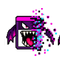
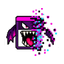
Caçada: limpa sobras de recorte dos sprites (linhas fantasma e pedaços soltos)
- Capanga-Mor, Degustador, Sombra e punho tinham a borda da folha de recorte como uma linha
  quase transparente (aparecia do outro lado quando o sprite virava).
- 13 sprites tinham pedaços do quadro vizinho colados na margem (conferidos um a um).
- tools/sprites-bordas.js acha os suspeitos; tools/sprites-limpar.js limpa sem tocar no desenho.

Changed region(s): [[0.875, 0.5312, 0.9375, 0.7188]]

diff --git a/tools/sprites-bordas.js b/tools/sprites-bordas.js
@@ -1,0 +1,147 @@
+// Confere as bordas dos sprites (Caçada e outros): acha desenho cortado na borda da imagem e
+// pedaços soltos perto da borda (sobras do quadro vizinho), que aparecem quando o sprite vira.
+// Uso: node tools/sprites-bordas.js [pastas...] [--json saida.json] [--folha pasta-das-folhas]
+//   --folha gera, para cada sprite com problema, uma imagem com o original e o espelhado
+//   lado a lado, sobre xadrez, com os problemas marcados em vermelho.
+const fs = require('node:fs');
+const path = require('node:path');
+const sharp = require('sharp');
+
+const args = process.argv.slice(2);
+const opc = { pastas: [], json: null, folha: null };
+for (let i = 0; i < args.length; i++) {
+    if (args[i] === '--json') opc.json = args[++i];
+    else if (args[i] === '--folha') opc.folha = args[++i];
+    else opc.pastas.push(args[i]);
+}
+if (!opc.pastas.length) {
+    opc.pastas = ['degustador', 'chefes', 'inimigos', 'npcs', 'inominavel', 'objetos', 'perigos', 'efeitos', 'ronda']
+        .map((p) => path.join('assets', p));
+}
+
+const ALFA = 24;            // acima disso o pixel conta como desenho
+const PERTO = 6;            // pedaço solto a até 6 px da borda
+const PEDACO_MAX = 0.02;    // pedaço solto = menos de 2% do desenho
+
+function pngs(pasta) {
+    if (!fs.existsSync(pasta)) return [];
+    return fs.readdirSync(pasta, { withFileTypes: true }).flatMap((d) => {
+        const p = path.join(pasta, d.name);
+        if (d.isDirectory()) return pngs(p);
+        return /\.png$/i.test(d.name) ? [p] : [];
+    });
+}
+
+/** Componentes conectados (8 vizinhos) dos pixels com desenho. */
+function componentes(opaco, w, h) {
+    const rotulo = new Int32Array(w * h).fill(-1);
+    const lista = [];
+    const fila = new Int32Array(w * h);
+    for (let p0 = 0; p0 < w * h; p0++) {
+        if (!opaco[p0] || rotulo[p0] >= 0) continue;
+        const c = { n: 0, x0: w, y0: h, x1: 0, y1: 0 };
+        let ini = 0, fim = 0;
+        fila[fim++] = p0; rotulo[p0] = lista.length;
+        while (ini < fim) {
+            const p = fila[ini++];
+            const x = p % w, y = (p - x) / w;
+            c.n++;
+            if (x < c.x0) c.x0 = x; if (x > c.x1) c.x1 = x;
+            if (y < c.y0) c.y0 = y; if (y > c.y1) c.y1 = y;
+            for (let dy = -1; dy <= 1; dy++) for (let dx = -1; dx <= 1; dx++) {
+                const nx = x + dx, ny = y + dy;
+                if (nx < 0 || ny < 0 || nx >= w || ny >= h) continue;
+                const q = ny * w + nx;
+                if (opaco[q] && rotulo[q] < 0) { rotulo[q] = lista.length; fila[fim++] = q; }
+            }
+        }
+        lista.push(c);
+    }
+    return lista;
+}
+
+async function conferir(arquivo) {
+    const { data, info } = await sharp(arquivo).ensureAlpha().raw().toBuffer({ resolveWithObject: true });
+    const { width: w, height: h } = info;
+    const opaco = new Uint8Array(w * h);
+    let total = 0;
+    for (let p = 0; p < w * h; p++) if (data[p * 4 + 3] > ALFA) { opaco[p] = 1; total++; }
+    const r = { arquivo: arquivo.replace(/\\/g, '/'), w, h, problemas: [], marcas: [] };
+    if (!total) { r.problemas.push('imagem vazia'); return r; }
+    // 1) desenho encostando na borda (cortado)
+    const borda = { cima: 0, baixo: 0, esquerda: 0, direita: 0 };
+    for (let x = 0; x < w; x++) { borda.cima += opaco[x]; borda.baixo += opaco[(h - 1) * w + x]; }
+    for (let y = 0; y < h; y++) { borda.esquerda += opaco[y * w]; borda.direita += opaco[y * w + w - 1]; }
+    for (const [lado, n] of Object.entries(borda)) {
+        if (n >= 2) {
+            r.problemas.push(`encosta na borda ${lado} (${n} px)`);
+            r.marcas.push(lado === 'cima' ? { x: 0, y: 0, w, h: 3 } : lado === 'baixo' ? { x: 0, y: h - 3, w, h: 3 }
+                : lado === 'esquerda' ? { x: 0, y: 0, w: 3, h } : { x: w - 3, y: 0, w: 3, h });
+        }
+    }
+    // 2) corte reto: a coluna/linha mais de fora do desenho tem muitos pixels (faca de recorte),
+    //    mesmo com margem transparente depois (recorte feito antes de pôr a margem)
+    let x0 = w, x1 = -1, y0 = h, y1 = -1;
+    for (let y = 0; y < h; y++) for (let x = 0; x < w; x++) if (opaco[y * w + x]) {
+        if (x < x0) x0 = x; if (x > x1) x1 = x; if (y < y0) y0 = y; if (y > y1) y1 = y;
+    }
+    const conta = (fixo, vertical) => {
+        let n = 0;
+        for (let i = 0; i < (vertical ? h : w); i++) n += vertical ? opaco[i * w + fixo] : opaco[fixo * w + i];
+        return n;
+    };
+    const lados = [['esquerda', x0, true], ['direita', x1, true], ['cima', y0, false], ['baixo', y1, false]];
+    for (const [lado, pos, vertical] of lados) {
+        const naBorda = pos === 0 || pos === (vertical ? w - 1 : h - 1);
+        const n = conta(pos, vertical);
+        const minimo = Math.max(8, Math.round((vertical ? y1 - y0 : x1 - x0) * 0.15));
+        if (!naBorda && n >= minimo && lado !== 'baixo') {
+            r.problemas.push(`corte reto na ${lado} (${n} px na coluna/linha ${pos})`);
+            r.marcas.push(vertical ? { x: pos - 1, y: 0, w: 3, h } : { x: 0, y: pos - 1, w, h: 3 });
+        }
+    }
+    // 3) pedaços soltos pequenos perto da borda
+    for (const c of componentes(opaco, w, h)) {
+        const pequeno = c.n < total * PEDACO_MAX;
+        const pertoDaBorda = c.x0 < PERTO || c.y0 < PERTO || c.x1 >= w - PERTO || c.y1 >= h - PERTO;
+        if (pequeno && pertoDaBorda && c.n >= 3) {
+            r.problemas.push(`pedaço solto de ${c.n} px em x ${c.x0}-${c.x1}, y ${c.y0}-${c.y1}`);
+            r.marcas.push({ x: c.x0 - 2, y: c.y0 - 2, w: c.x1 - c.x0 + 5, h: c.y1 - c.y0 + 5 });
+        }
+    }
+    r.margem = { cima: null };
+    return r;
+}
+
+/** Original + espelhado sobre xadrez, com os problemas em vermelho. */
+async function folha(r, pasta) {
+    const { w, h } = r;
+    const xadrez = Buffer.from(`<svg xmlns="http://www.w3.org/2000/svg" width="${w * 2 + 12}" height="${h}">
+        <defs><pattern id="x" width="16" height="16" patternUnits="userSpaceOnUse"><rect width="16" height="16" fill="#ddd"/><rect width="8" height="8" fill="#aaa"/><rect x="8" y="8" width="8" height="8" fill="#aaa"/></pattern></defs>
+        <rect width="100%" height="100%" fill="url(#x)"/><rect x="${w}" width="12" height="${h}" fill="#222"/></svg>`);
+    const marcas = (espelho) => Buffer.from(`<svg xmlns="http://www.w3.org/2000/svg" width="${w}" height="${h}">${r.marcas.map((m) => {
+        const x = espelho ? w - m.x - m.w : m.x;
+        return `<rect x="${x}" y="${m.y}" width="${m.w}" height="${m.h}" fill="none" stroke="red" stroke-width="2"/>`;
+    }).join('')}</svg>`);
+    const orig = await sharp(r.arquivo).ensureAlpha().png().toBuffer();
+    const esp = await sharp(r.arquivo).ensureAlpha().flop().png().toBuffer();
+    const nome = r.arquivo.replace(/^assets\//, '').replace(/[\\/]/g, '__');
+    await sharp(xadrez).composite([
+        { input: orig, left: 0, top: 0 }, { input: marcas(false), left: 0, top: 0 },
+        { input: esp, left: w + 12, top: 0 }, { input: marcas(true), left: w + 12, top: 0 },
+    ]).png().toFile(path.join(pasta, nome));
+}
+
+(async () => {
+    const arquivos = opc.pastas.flatMap(pngs);
+    const resultados = [];
+    for (const a of arquivos) resultados.push(await conferir(a));
+    const ruins = resultados.filter((r) => r.problemas.length);
+    if (opc.folha) {
+        fs.mkdirSync(opc.folha, { recursive: true });
+        for (const r of ruins) await folha(r, opc.folha);
+    }
+    for (const r of ruins) console.log(`${r.arquivo} (${r.w}x${r.h}): ${r.problemas.join('; ')}`);
+    console.log(`\n${arquivos.length} sprites conferidos, ${ruins.length} com possível problema.`);
+    if (opc.json) fs.writeFileSync(opc.json, JSON.stringify(ruins, null, 1));
+})();

diff --git a/tools/sprites-limpar.js b/tools/sprites-limpar.js
@@ -1,0 +1,98 @@
+// Limpa sobras de recorte dos sprites, sem tocar no desenho:
+//   1) linhas fantasma: fileiras retas e longas de pixels quase transparentes (alfa 1..60), isoladas
+//      (com vazio de um lado), deixadas pela borda da folha de onde o quadro foi recortado;
+//   2) pedaços soltos (--pedacos): componentes pequenos (< 2% do desenho) a até 6 px da borda.
+// Uso: node tools/sprites-limpar.js [--pedacos] [--ver] arquivo.png ...   (--ver = só mostra)
+//      node tools/sprites-limpar.js --pastas degustador chefes ...          (linhas fantasma em pastas de assets/)
+// Ver também tools/sprites-bordas.js, que acha os suspeitos.
+const fs = require('node:fs');
+const path = require('node:path');
+const sharp = require('sharp');
+
+const FRACO = 60;
+const LINHA_MIN = 0.35;     // fileira com pelo menos 35% do lado da imagem
+const LINHA_MIN_PX = 50;    // e 50 px (contorno reto de asa ou envelope pequeno fica)
+const PERTO = 6;
+const PEDACO_MAX = 0.02;
+
+const args = process.argv.slice(2);
+const pedacos = args.includes('--pedacos');
+const soVer = args.includes('--ver');
+let arquivos = args.filter((a) => !a.startsWith('--'));
+if (args.includes('--pastas')) {
+    const lista = (d) => fs.existsSync(d) ? fs.readdirSync(d, { withFileTypes: true })
+        .flatMap((e) => e.isDirectory() ? lista(path.join(d, e.name)) : /\.png$/i.test(e.name) ? [path.join(d, e.name)] : []) : [];
+    arquivos = arquivos.flatMap((p) => lista(path.join('assets', p)));
+}
+
+function linhasFantasma(data, w, h) {
+    const a = (x, y) => data[(y * w + x) * 4 + 3];
+    const apagar = new Set();
+    const varrer = (n, len, pos, vizinhoVazio) => {
+        for (let i = 0; i < n; i++) {
+            let ini = 0, run = 0;
+            for (let j = 0; j <= len; j++) {
+                const fraco = j < len && (() => { const [x, y] = pos(i, j); const v = a(x, y); return v > 0 && v <= FRACO && vizinhoVazio(x, y); })();
+                if (fraco) { if (!run) ini = j; run++; continue; }
+                if (run >= Math.max(LINHA_MIN_PX, len * LINHA_MIN)) for (let k = ini; k < ini + run; k++) { const [x, y] = pos(i, k); apagar.add(y * w + x); }
+                run = 0;
+            }
+        }
+    };
+    varrer(w, h, (x, y) => [x, y], (x, y) => x === 0 || x === w - 1 || a(x - 1, y) === 0 || a(x + 1, y) === 0);
+    varrer(h, w, (y, x) => [x, y], (x, y) => y === 0 || y === h - 1 || a(x, y - 1) === 0 || a(x, y + 1) === 0);
+    return apagar;
+}
+
+function pedacosSoltos(data, w, h) {
+    const opaco = new Uint8Array(w * h);
+    let total = 0;
+    for (let p = 0; p < w * h; p++) if (data[p * 4 + 3] > 24) { opaco[p] = 1; total++; }
+    const visto = new Uint8Array(w * h);
+    const apagar = new Set();
+    for (let p0 = 0; p0 < w * h; p0++) {
+        if (!opaco[p0] || visto[p0]) continue;
+        const comp = [p0]; visto[p0] = 1;
+        let x0 = w, y0 = h, x1 = 0, y1 = 0;
+        for (let i = 0; i < comp.length; i++) {
+            const p = comp[i], x = p % w, y = (p - x) / w;
+            x0 = Math.min(x0, x); x1 = Math.max(x1, x); y0 = Math.min(y0, y); y1 = Math.max(y1, y);
+            for (let dy = -1; dy <= 1; dy++) for (let dx = -1; dx <= 1; dx++) {
+                const nx = x + dx, ny = y + dy, q = ny * w + nx;
+                if (nx >= 0 && ny >= 0 && nx < w && ny < h && opaco[q] && !visto[q]) { visto[q] = 1; comp.push(q); }
+            }
+        }
+        const perto = x0 < PERTO || y0 < PERTO || x1 >= w - PERTO || y1 >= h - PERTO;
+        if (perto && comp.length < total * PEDACO_MAX) {
+            // leva junto a franja quase transparente em volta do pedaço
+            for (const p of comp) {
+                const x = p % w, y = (p - x) / w;
+                for (let dy = -1; dy <= 1; dy++) for (let dx = -1; dx <= 1; dx++) {
+                    const nx = x + dx, ny = y + dy;
+                    if (nx >= 0 && ny >= 0 && nx < w && ny < h && !opaco[ny * w + nx]) apagar.add(ny * w + nx);
+                }
+                apagar.add(p);
+            }
+        }
+    }
+    return apagar;
+}
+
+(async () => {
+    let mexidos = 0;
+    for (const arquivo of arquivos) {
+        const { data, info } = await sharp(arquivo).ensureAlpha().raw().toBuffer({ resolveWithObject: true });
+        const { width: w, height: h } = info;
+        const linhas = linhasFantasma(data, w, h);
+        const soltos = pedacos ? pedacosSoltos(data, w, h) : new Set();
+        const n = new Set([...linhas, ...soltos]).size;
+        if (!n) continue;
+        mexidos++;
+        console.log(`${arquivo.replace(/\\/g, '/')}: ${linhas.size} px de linha fantasma${pedacos ? `, ${soltos.size} px de pedaço solto` : ''}`);
+        if (soVer) continue;
+        for (const p of [...linhas, ...soltos]) data[p * 4 + 3] = 0;
+        const png = await sharp(data, { raw: { width: w, height: h, channels: 4 } }).png().toBuffer();
+        fs.writeFileSync(arquivo, png);
+    }
+    console.log(`\n${arquivos.length} conferidos, ${mexidos} ${soVer ? 'para limpar' : 'limpos'}.`);
+})();
